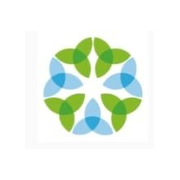
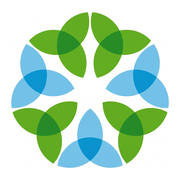
Логотип HD, крупный единый шрифт обложки, блок завода, видео сертификатов под списком, автоплей слайдов

diff --git a/index.html b/index.html
@@ -106,17 +106,12 @@
     </div>
   </section>
 
-  <section class="about-band" id="about">
-    <video class="about-video" autoplay muted loop playsinline preload="metadata" poster="assets/video/certs-poster.jpg" aria-hidden="true">
-      <source src="assets/video/certs.mp4" type="video/mp4">
-    </video>
-    <div class="about-overlay" aria-hidden="true"></div>
-
-    <div class="wrap about-content">
+  <section class="section" id="about">
+    <div class="wrap">
       <div class="about-head">
-        <span class="about-logo"><img src="assets/img/logo-badge.png" alt="GreenLeaf" width="256" height="256"></span>
+        <span class="about-logo"><img src="assets/img/logo-badge.png" alt="GreenLeaf" width="512" height="512"></span>
         <h2 class="display">О компании</h2>
-        <p class="lead">GreenLeaf: стратегия, миссия, ценности и программа компании.</p>
+        <p class="lead">GreenLeaf: стратегия, миссия, ценности, программа и собственное производство.</p>
       </div>
 
       <div class="about-card">
@@ -137,13 +132,25 @@
             <span class="k">Программа</span>
             <p class="v">Стать лучшим работодателем на мировом уровне и крупнейшей платформой качественных продуктов.</p>
           </div>
+          <div class="company-item wide">
+            <span class="k">Собственный завод</span>
+            <p class="v">Продукция GreenLeaf выпускается на собственных заводах компании под её брендами. Каждая партия проходит контроль качества на всех этапах: от сырья до упаковки.</p>
+          </div>
         </div>
 
-        <ul class="cert-points">
-          <li><span class="tick"><svg aria-hidden="true"><use href="#i-check"></use></svg></span>Международные сертификаты качества</li>
-          <li><span class="tick"><svg aria-hidden="true"><use href="#i-check"></use></svg></span>Сертификаты Халяль</li>
-          <li><span class="tick"><svg aria-hidden="true"><use href="#i-check"></use></svg></span>Производственные стандарты</li>
-        </ul>
+        <div class="cert-block">
+          <span class="k">Качество и сертификаты</span>
+          <ul class="cert-points">
+            <li><span class="tick"><svg aria-hidden="true"><use href="#i-check"></use></svg></span>Международные сертификаты качества</li>
+            <li><span class="tick"><svg aria-hidden="true"><use href="#i-check"></use></svg></span>Сертификаты Халяль</li>
+            <li><span class="tick"><svg aria-hidden="true"><use href="#i-check"></use></svg></span>Производственные стандарты</li>
+          </ul>
+          <div class="cert-video">
+            <video autoplay muted loop playsinline preload="metadata" poster="assets/video/certs-poster.jpg" aria-label="Сертификаты GreenLeaf">
+              <source src="assets/video/certs.mp4" type="video/mp4">
+            </video>
+          </div>
+        </div>
       </div>
     </div>
   </section>

diff --git a/assets/js/viewer.js b/assets/js/viewer.js
@@ -1,4 +1,4 @@
-/* Presentation viewer: one page at a time, arrows, dots strip, swipe. */
+/* Presentation viewer: one page at a time, arrows, thumbnails, swipe, autoplay. */
 (function () {
   'use strict';
   var root = document.querySelector('[data-viewer]');
@@ -15,6 +15,11 @@
     return { src: t.dataset.src, alt: t.dataset.alt || '' };
   });
   var index = 0;
+  var timer = null;
+  var pausedUntil = 0;
+  var inView = true;
+  var reduce = window.matchMedia && window.matchMedia('(prefers-reduced-motion: reduce)').matches;
+  var DELAY = 4500;
 
   function pad(n) { return (n < 10 ? '0' : '') + n; }
 
@@ -35,18 +40,35 @@
     }
   }
 
+  function stop() {
+    if (timer) { clearInterval(timer); timer = null; }
+  }
+
+  function start() {
+    stop();
+    if (reduce || !inView || document.hidden) return;
+    timer = setInterval(function () {
+      if (Date.now() < pausedUntil) return;
+      show(index + 1);
+    }, DELAY);
+  }
+
+  function pause() {
+    pausedUntil = Date.now() + 15000;
+  }
+
   root.addEventListener('click', function (e) {
-    if (e.target.closest('.viewer-next')) { show(index + 1); return; }
-    if (e.target.closest('.viewer-prev')) { show(index - 1); return; }
+    if (e.target.closest('.viewer-next')) { pause(); show(index + 1); return; }
+    if (e.target.closest('.viewer-prev')) { pause(); show(index - 1); return; }
     var th = e.target.closest('.thumb');
-    if (th) show(parseInt(th.dataset.i, 10) || 0);
+    if (th) { pause(); show(parseInt(th.dataset.i, 10) || 0); }
   });
 
   document.addEventListener('keydown', function (e) {
     var tag = (document.activeElement && document.activeElement.tagName) || '';
     if (/^(INPUT|TEXTAREA|SELECT)$/.test(tag)) return;
-    if (e.key === 'ArrowRight') show(index + 1);
-    else if (e.key === 'ArrowLeft') show(index - 1);
+    if (e.key === 'ArrowRight') { pause(); show(index + 1); }
+    else if (e.key === 'ArrowLeft') { pause(); show(index - 1); }
   });
 
   var stage = root.querySelector('.viewer-stage');
@@ -58,8 +80,23 @@
     if (startX === null) return;
     var dx = e.changedTouches[0].clientX - startX;
     startX = null;
-    if (Math.abs(dx) > 40) show(dx < 0 ? index + 1 : index - 1);
+    if (Math.abs(dx) > 40) { pause(); show(dx < 0 ? index + 1 : index - 1); }
   }, { passive: true });
 
+  if (document.hidden !== undefined) {
+    document.addEventListener('visibilitychange', function () {
+      if (document.hidden) stop(); else start();
+    });
+  }
+
+  if ('IntersectionObserver' in window) {
+    var io = new IntersectionObserver(function (entries) {
+      inView = entries[0].isIntersecting;
+      if (inView) start(); else stop();
+    }, { threshold: 0.15 });
+    io.observe(root);
+  }
+
   show(0);
+  start();
 })();

diff --git a/assets/css/style.css b/assets/css/style.css
@@ -2217,3 +2217,60 @@ body{
   .cover-link{min-height:42px;padding:0 16px;font-size:10.5px;letter-spacing:.12em;}
   .cover-logo{width:54px;height:54px;}
 }
+
+/* ==========================================================================
+   Cover: one serif font, one size for all lines (per request)
+   ========================================================================== */
+
+.cover-company,
+.cover-sub,
+.cover-name,
+.cover-city,
+.cover-role{
+  font-family:var(--font-display);
+  font-size:clamp(16px,2vw,21px);
+  font-weight:600;
+  letter-spacing:.1em;
+  text-transform:uppercase;
+  line-height:1.65;
+  color:rgba(243,240,231,.94);
+}
+.cover-top{gap:0;}
+.cover-bottom{gap:0;}
+.cover-content{gap:clamp(14px,2.4vw,22px);}
+.cover-logo{width:56px;height:56px;padding:8px;}
+.cover .profile-photo{width:clamp(138px,24vw,190px);}
+.cover-links{margin-top:6px;}
+
+/* About: factory block + certificates video */
+.company-grid .company-item.wide{grid-column:1/-1;}
+
+.cert-block{
+  margin-top:clamp(24px,3.5vw,34px);
+  padding-top:clamp(20px,3vw,28px);
+  border-top:1px solid rgba(14,36,26,.12);
+}
+.cert-block .k{
+  display:inline-block;
+  font-size:10.5px;letter-spacing:.2em;text-transform:uppercase;font-weight:600;
+  color:var(--green-deep);
+  border-bottom:2px solid var(--green);padding-bottom:4px;
+}
+.cert-block .cert-points{margin-top:16px;gap:12px;max-width:none;}
+.cert-block .cert-points li{color:var(--ink-soft);font-size:15px;}
+.cert-block .cert-points .tick{background:var(--green);color:var(--green-ink);}
+
+.cert-video{
+  margin-top:20px;
+  border-radius:16px;
+  overflow:hidden;
+  background:#062A1E;
+  box-shadow:0 18px 36px -28px rgba(2,14,9,.7);
+}
+.cert-video video{width:100%;display:block;aspect-ratio:16/9;object-fit:cover;}
+
+@media (max-width:560px){
+  .cover-company,.cover-sub,.cover-name,.cover-city,.cover-role{font-size:16px;letter-spacing:.09em;}
+  .cover .profile-photo{width:132px;}
+  .cover-logo{width:48px;height:48px;padding:7px;}
+}
